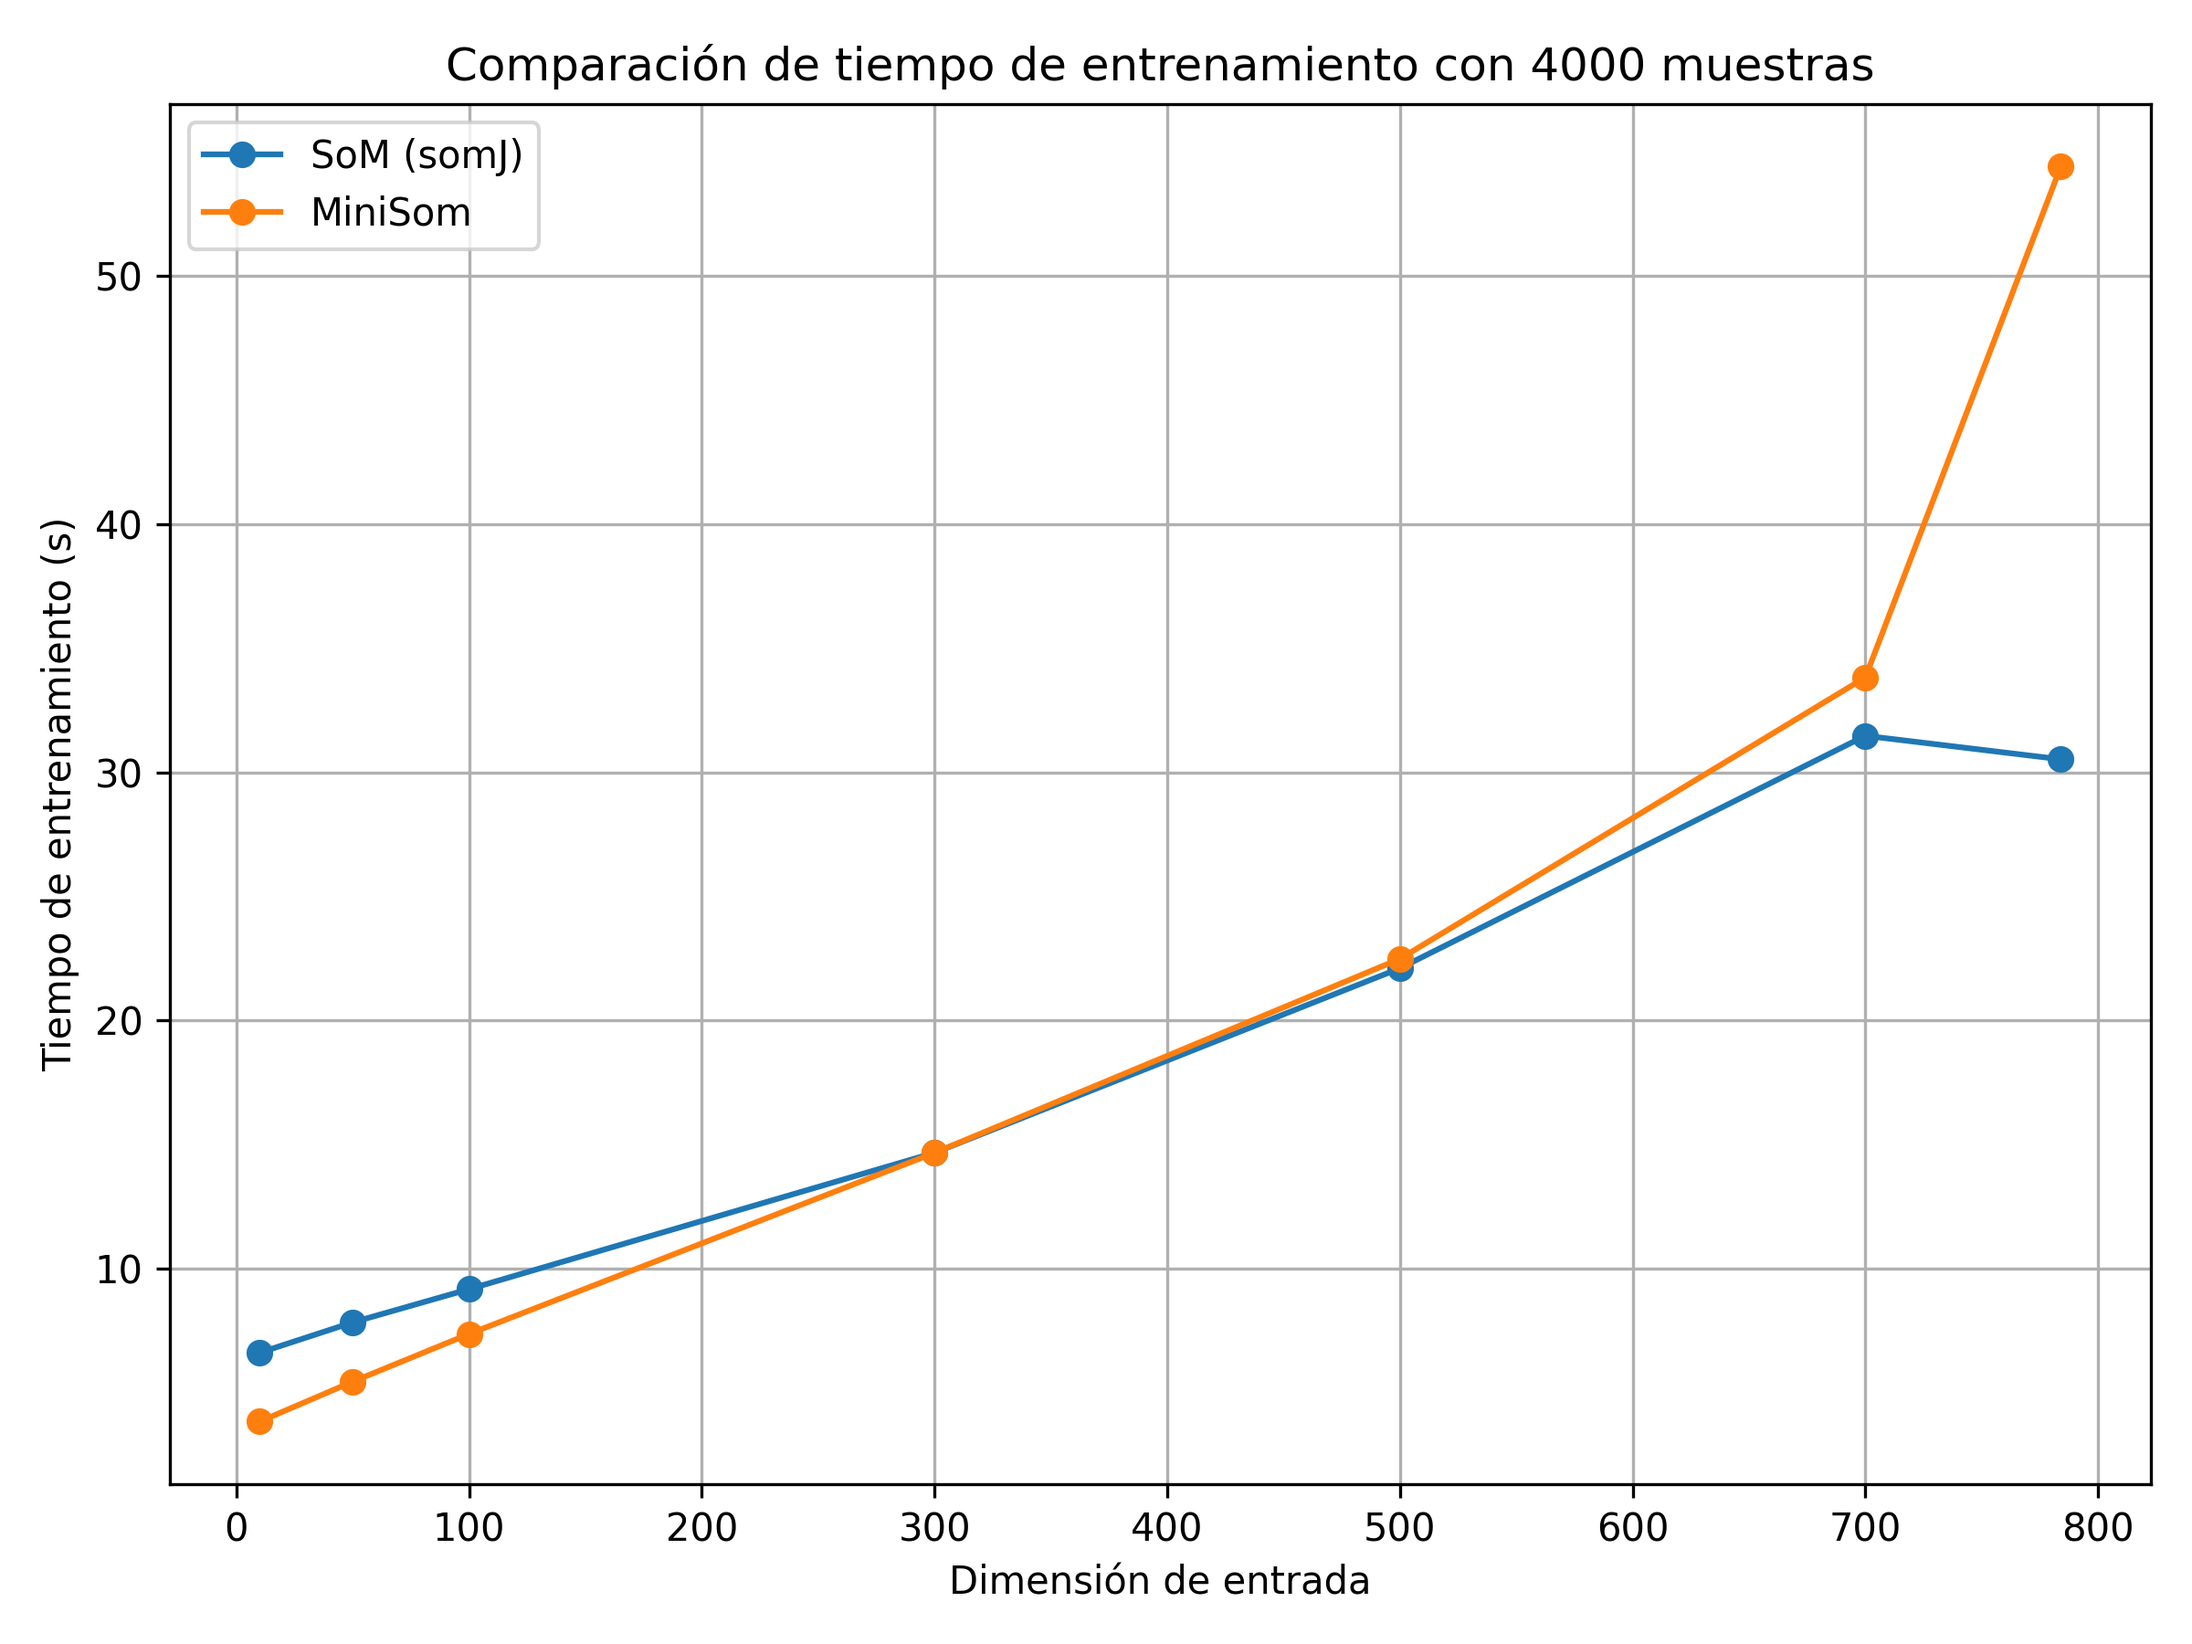
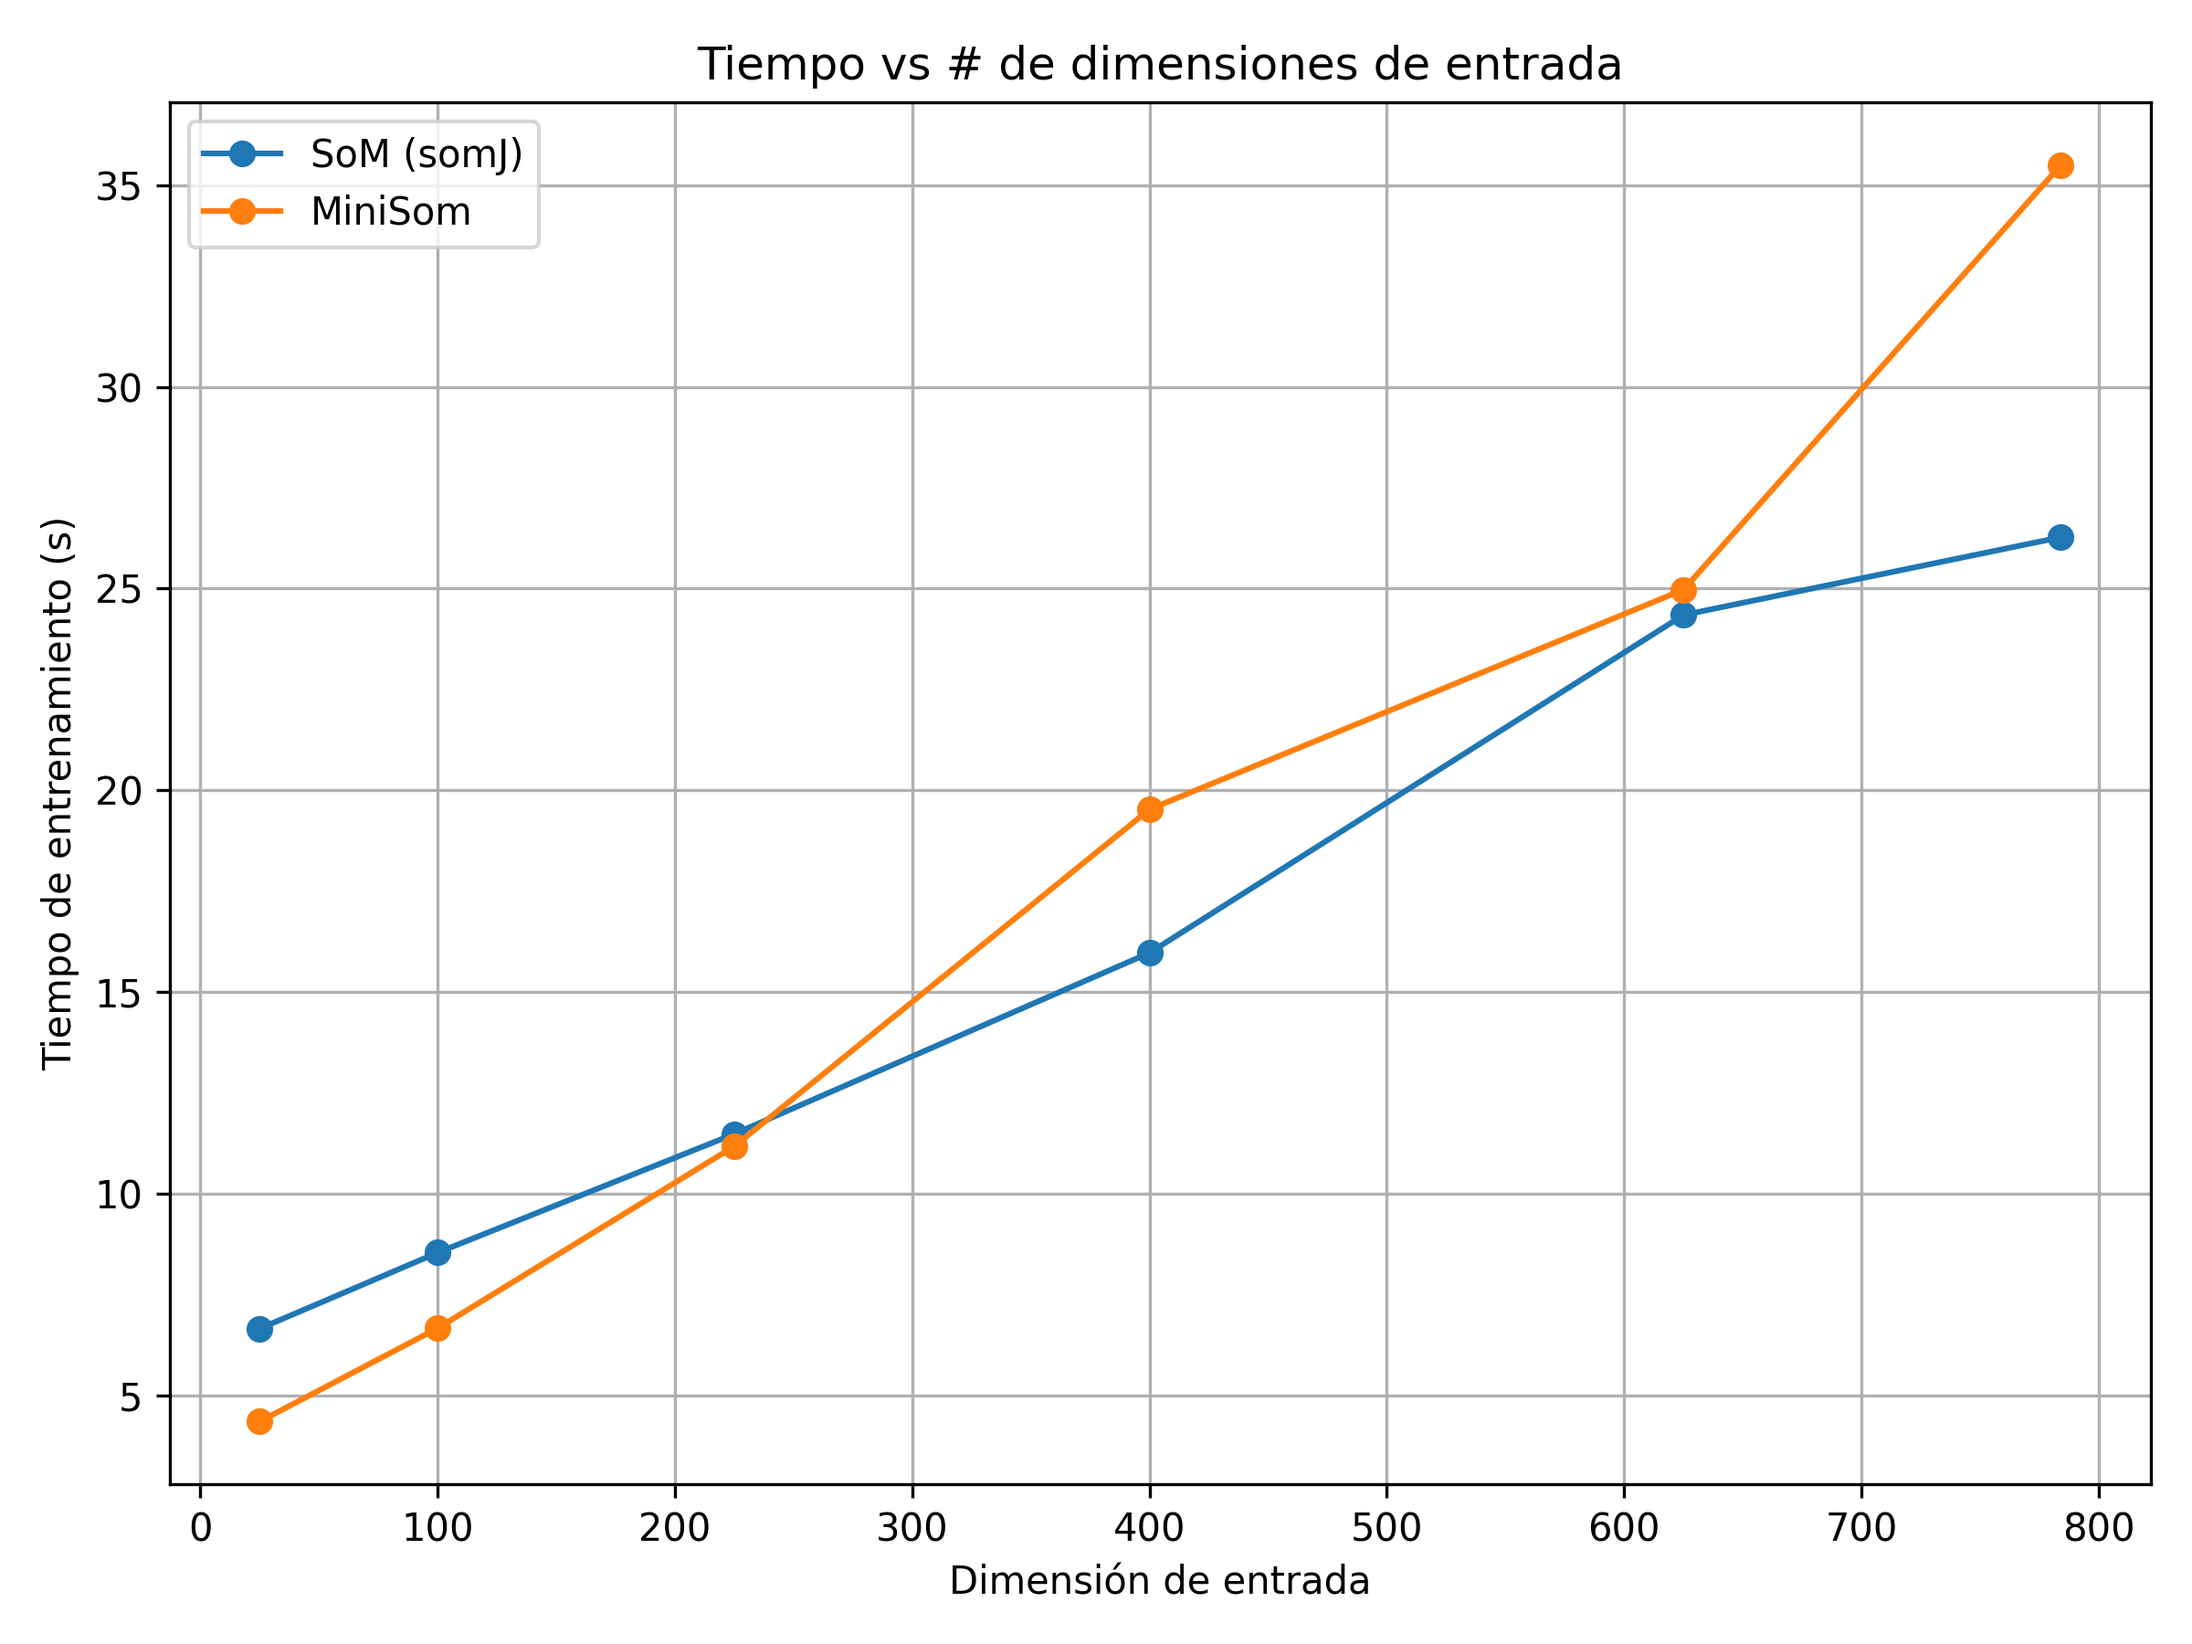
Ajustados
Modificación  para permitir ajustar los experimento para que sean más justos y entrenen MiniSOm con solo una epoch

diff --git a/experimentos/comp_size.py b/experimentos/comp_size.py
@@ -3,6 +3,7 @@ import time
 import matplotlib.pyplot as plt
 from sklearn.datasets import fetch_openml
 from somJ.som import SoM
+from functions import *
 import somJ.config as config
 from minisom import MiniSom
 from sklearn.preprocessing import MinMaxScaler
@@ -16,6 +17,11 @@ from sklearn.preprocessing import MinMaxScaler
 #
 # ------------------------------------------------------------------------------------------------------------------------------
 
+# Después de evaluar la accuracy respecto del numero de epochs, podemos observar que minisom no requiere de tantas muestras para
+# obtener información por lo que con una epoch es suficiente. Poner "ajustado" verdadero, significa que para el experimento se
+# usara una sola epoch de Minisom frente a las 50 de SOM. Si es falso, se usarán 50 epochs en cada algoritmo.
+
+AJUSTADO=True
 
 sample_sizes = [1000, 5000, 10000, 20000,40000] # Máximo 60 000
 fixed_dimension = 784 # Máximo de MNIST
@@ -23,8 +29,7 @@ epochs = config.EPOCHS
 som_shape = int(np.sqrt(config.TOTAL_NODES))
 
 # Cargar MNIST y normalizar
-mnist = fetch_openml('mnist_784', version=1)
-X_all = mnist.data.astype('float32') / 255.0 
+X_all,_=load_dataset("MNIST")
 
 scaler = MinMaxScaler()
 X_scaled = scaler.fit_transform(X_all)
@@ -61,23 +66,23 @@ for n_samples in sample_sizes:
     # MiniSom
     minisom = MiniSom(som_shape, som_shape, fixed_dimension, sigma=config.RADIUS_SQ, learning_rate=config.LEARNING_RATE)
     start_time = time.time()
-    for i in range(0,epochs):
+    if AJUSTADO:
         minisom.train_batch(X_sample, len(X_sample))
+    else:
+        for i in range(0,epochs):
+            minisom.train_batch(X_sample, len(X_sample))
     minisom_times.append(time.time() - start_time)
 
-# Línea de progresión ideal (lineal)
-k = somJ_times[0] / sample_sizes[0]  # Estimación del tiempo por muestra
-ideal_times = [k * n for n in sample_sizes]
 
 plt.figure(figsize=(8, 6))
 plt.plot(sample_sizes, somJ_times, label='SoM (somJ)', marker='o')
 plt.plot(sample_sizes, minisom_times, label='MiniSom', marker='o')
-plt.plot(sample_sizes, ideal_times, label='Progresión lineal ideal', linestyle='--')
 plt.xlabel('Número de muestras')
 plt.ylabel('Tiempo de entrenamiento (s)')
 plt.title(f'Tiempo vs muestras')
 plt.legend()
 plt.grid(True)
 plt.tight_layout()
-plt.savefig(f'experimentos/g_time_comp/tiempos_vs_muestras_{fixed_dimension}_batchmap_fair.png', dpi=300)
+if AJUSTADO:plt.savefig(f'experimentos/g_time_comp/tiempos_vs_muestras_batchmap_ajustado.png', dpi=300)
+else:plt.savefig(f'experimentos/g_time_comp/tiempos_vs_muestras_bathcmap.png', dpi=300)
 plt.show()

diff --git a/experimentos/comp_dim.py b/experimentos/comp_dim.py
@@ -2,7 +2,7 @@ import numpy as np
 import time
 import matplotlib.pyplot as plt
 from sklearn.preprocessing import MinMaxScaler
-from sklearn.datasets import fetch_openml
+from functions import *
 from sklearn.decomposition import PCA
 from somJ.som import SoM
 import somJ.config as config
@@ -16,17 +16,24 @@ from minisom import MiniSom
 #   Los resultados son almacenados en una grafica en la carpeta g_time_comp
 #
 # ------------------------------------------------------------------------------------------------------------------------------
+# Después de evaluar la accuracy respecto del numero de epochs, podemos observar que minisom no requiere de tantas muestras para
+# obtener información por lo que con una epoch es suficiente. Poner "ajustado" verdadero, significa que para el experimento se
+# usara una sola epoch de Minisom frente a las 50 de SOM. Si es falso, se usarán 50 epochs en cada algoritmo.
+
+AJUSTADO=False
 
 # Parámetros
 n_samples = 4000
-dimensions = [10, 50, 100, 300, 500, 700, 784]
+dimensions = [25, 100, 225, 400, 625, 784] # 5x5 10x10 15x15 20x20 25x25 28x28
 epochs = config.EPOCHS
 som_shape = int(np.sqrt(config.TOTAL_NODES))
 
-# Cargar MNIST y preprocesar
-mnist = fetch_openml('mnist_784', version=1)
-X_all = mnist.data.astype('float32') / 255.0  # Normalizar entre 0 y 1
-X_sample = X_all[:n_samples]
+# Cargar MNIST y normalizar
+X_all,_=load_dataset("MNIST")
+
+scaler = MinMaxScaler()
+X_scaled = scaler.fit_transform(X_all)
+X_sample = X_scaled[:n_samples]
 
 # Almacenar tiempos
 somJ_times = []
@@ -69,8 +76,11 @@ for d in dimensions:
     # MiniSom
     minisom = MiniSom(som_shape, som_shape, d, sigma=config.RADIUS_SQ, learning_rate=config.LEARNING_RATE)
     start_time = time.time()
-    for i in range(0,epochs):
-        minisom.train_batch(X_sample, len(X_sample))
+    if AJUSTADO:
+        minisom.train_batch(X_scaled, len(X_scaled))
+    else:
+        for i in range(0,epochs):
+            minisom.train_batch(X_scaled, len(X_scaled))
     minisom_times.append(time.time() - start_time)
 
 # Graficar resultados en una sola figura
@@ -83,5 +93,6 @@ plt.title(f'Tiempo vs # de dimensiones de entrada')
 plt.legend()
 plt.grid(True)
 plt.tight_layout()
-plt.savefig(f'experimentos/g_time_comp/tiempos_vs_dimensiones_{n_samples}.png', dpi=300)
+if AJUSTADO:plt.savefig(f'experimentos/g_time_comp/tiempos_vs_dimensiones_ajustado.png', dpi=300)
+else:plt.savefig(f'experimentos/g_time_comp/tiempos_vs_dimensiones.png', dpi=300)
 plt.show()

diff --git a/experimentos/comp_classi.py b/experimentos/comp_classi.py
@@ -30,6 +30,13 @@ warnings.filterwarnings("ignore", category=UserWarning)
 
 # ------------------------------------------------------------------------------------------------------------------------------
 
+# Después de evaluar la accuracy respecto del numero de epochs, podemos observar que minisom no requiere de tantas muestras para
+# obtener información por lo que con una epoch es suficiente. Poner "ajustado" verdadero, significa que para el experimento se
+# usara una sola epoch de Minisom frente a las 50 de SOM. Si es falso, se usarán 50 epochs en cada algoritmo.
+
+AJUSTADO=False
+
+
 # Aplica MiniSom y devuelve el objeto entrenado
 
 def apply_som(X_sample):
@@ -38,8 +45,11 @@ def apply_som(X_sample):
     minisom = MiniSom(som_shape, som_shape, X_sample.shape[1], 
                       sigma=config.RADIUS_SQ, learning_rate=config.LEARNING_RATE,
                       random_seed=42)
-    for i in range(0,epochs):
+    if AJUSTADO:
         minisom.train_batch(X_sample, len(X_sample))
+    else:
+        for i in range(0,epochs):
+            minisom.train_batch(X_sample, len(X_sample))
     return minisom
 
 # Aplica tu implementación SoM y devuelve el objeto entrenado
@@ -181,7 +191,8 @@ if __name__ == '__main__':
     df_mean = df_results.groupby(["Dataset","Método"]).mean(numeric_only=True).reset_index()
     print("\n✅ Resultados promediados:")
     print(df_mean)
-    df_mean.to_csv("experimentos/resultados_Class_memory.csv", index=False)
+    if AJUSTADO:df_mean.to_csv("experimentos/resultados_Class_memory_ajustado.csv", index=False)
+    else:df_mean.to_csv("experimentos/resultados_Class_memory.csv", index=False)
 
     sns.set(style="whitegrid", font_scale=1.2)
     order = ["Iris","Digits","MNIST","Fashion MNIST"]
@@ -193,5 +204,6 @@ if __name__ == '__main__':
         plt.ylim(0, df_mean[metric].max()*1.1)
         plt.legend(title="Método", bbox_to_anchor=(1.02,1), loc='upper left')
         plt.tight_layout(rect=[0,0,0.85,1])
-        plt.savefig(f"experimentos/g_class/grafico_{metric.lower()}.png")
+        if AJUSTADO:plt.savefig(f"experimentos/g_class/ajustado/grafico_{metric.lower()}_ajustado.png")
+        else:plt.savefig(f"experimentos/g_class/ajustado/grafico_{metric.lower()}.png")
         plt.show()

diff --git a/experimentos/comp_epochs.py b/experimentos/comp_epochs.py
@@ -3,6 +3,7 @@ import time
 import matplotlib.pyplot as plt
 from sklearn.datasets import fetch_openml
 from somJ.som import SoM
+from functions import *
 import somJ.config as config
 from minisom import MiniSom
 from sklearn.metrics import accuracy_score
@@ -49,8 +50,7 @@ fixed_dimension = 784 # Máximo de MNIST
 som_shape = int(np.sqrt(config.TOTAL_NODES))
 
 # Cargar MNIST y normalizar
-mnist = fetch_openml('mnist_784', version=1, cache=True)
-X, y = mnist.data, mnist.target.astype(int)
+X,y=load_dataset("MNIST")
 scaler = MinMaxScaler()
 X_scaled = scaler.fit_transform(X)
 X_train, X_test, y_train, y_test=train_test_split(X_scaled, y, test_size=0.3, random_state=42)
